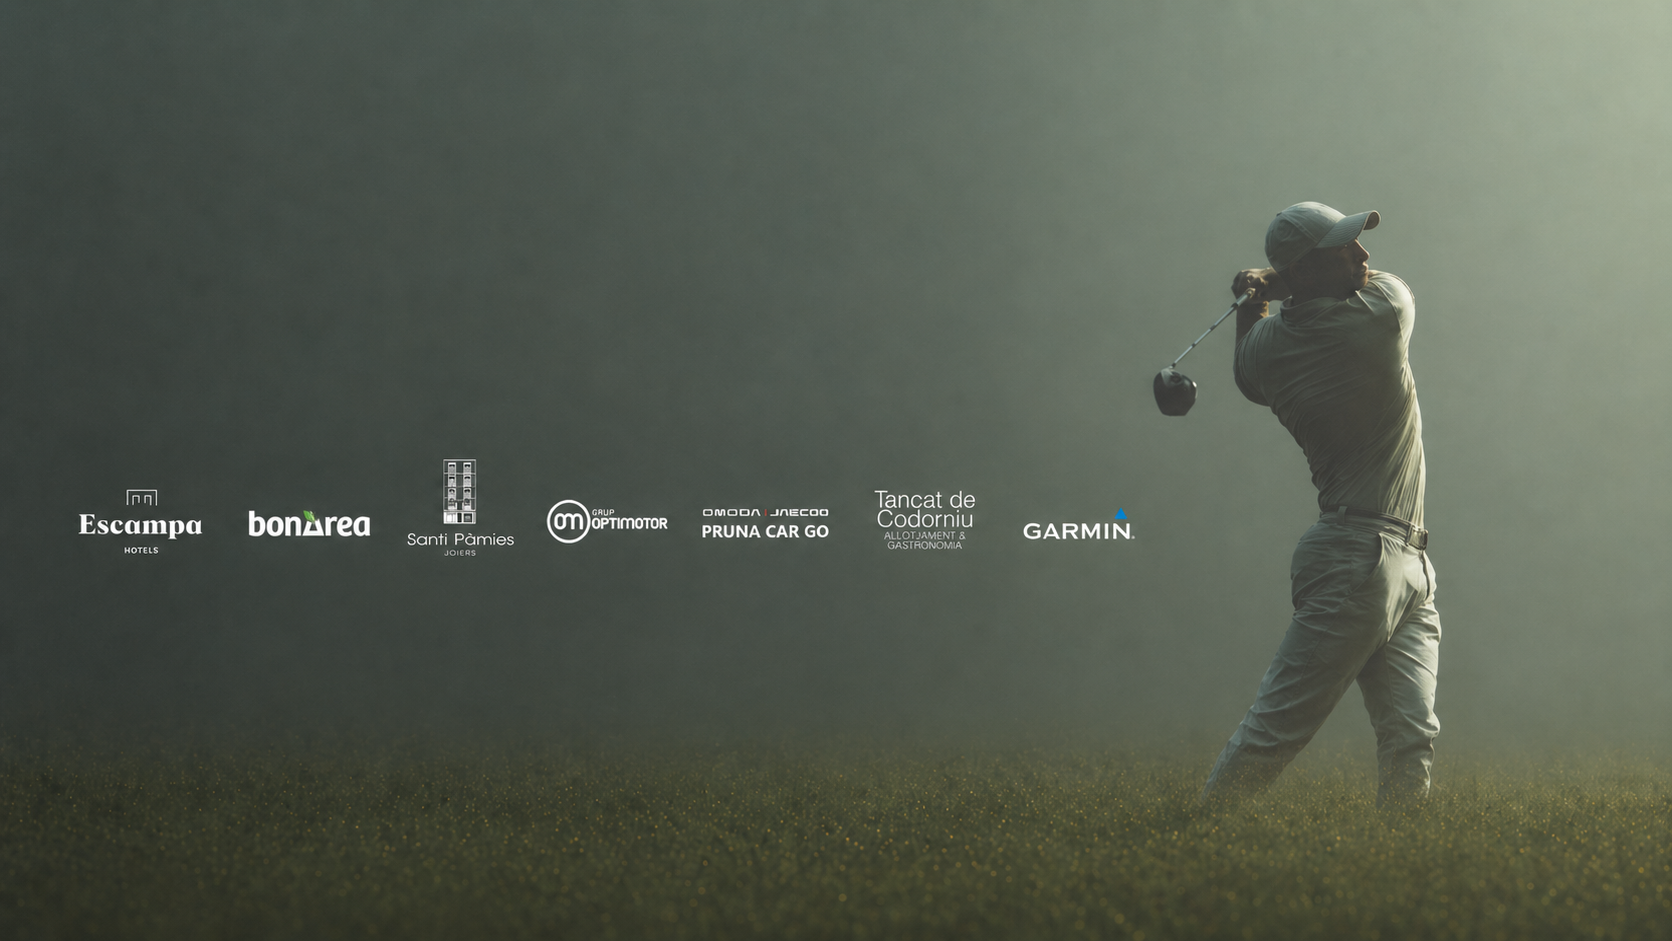
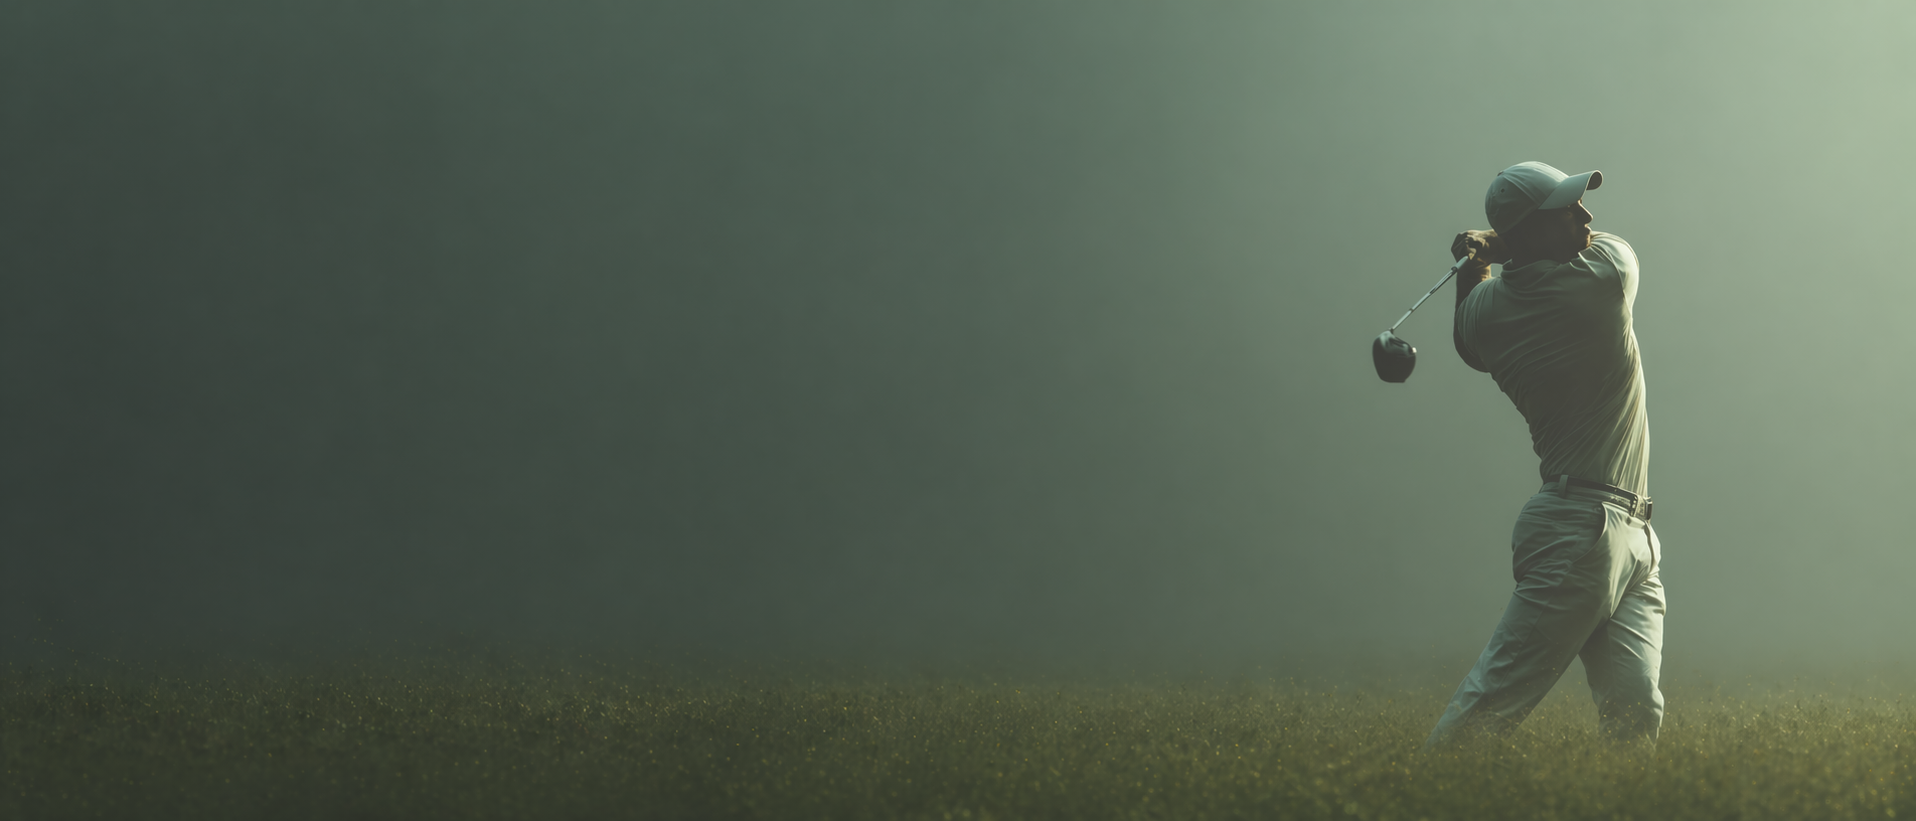
Reverted to commit fd0f9b88e95769e20c5b30c5cc159ce9741b2ccb

diff --git a/src/pages/Index.tsx b/src/pages/Index.tsx
@@ -1,4 +1,11 @@
 import heroBg from '@/assets/hero-editorial.png';
+import sponsorBonarea from '@/assets/sponsors/bonarea.png';
+import sponsorPruna from '@/assets/sponsors/pruna-car-go.png';
+import sponsorTancat from '@/assets/sponsors/tancat-codorniu.png';
+import sponsorOptimotor from '@/assets/sponsors/grup-optimotor.webp';
+import sponsorEscampa from '@/assets/sponsors/escampa-hotels.png';
+import sponsorPamies from '@/assets/sponsors/santi-pamies.png';
+import sponsorGarmin from '@/assets/sponsors/garmin.png';
 import { useState } from 'react';
 import { useTranslation } from 'react-i18next';
 import { Link } from 'react-router-dom';
@@ -110,6 +117,40 @@ const Index = () => {
           </p>
         </div>
 
+        {/* ——— SPONSORS overlay (positioned over the lower part of the hero) ——— */}
+        <div className="absolute inset-x-0 bottom-0 z-10">
+          {/* translucent panel that blends with the image */}
+          <div className="bg-gradient-to-t from-background/85 via-background/55 to-transparent backdrop-blur-[2px] pt-10 pb-5">
+            <div className="container">
+              <div className="flex items-center gap-4 mb-4">
+                <div className="h-px flex-1 bg-border/30" />
+                <h2 className="font-body text-[10px] font-medium tracking-[0.3em] uppercase text-muted-foreground/70">
+                  Patrocinadors
+                </h2>
+                <div className="h-px flex-1 bg-border/30" />
+              </div>
+              <div className="grid grid-cols-4 sm:grid-cols-7 gap-x-4 gap-y-4 sm:gap-x-6 items-center justify-items-center px-2">
+                {[
+                  { src: sponsorBonarea, alt: 'bonÀrea' },
+                  { src: sponsorPruna, alt: 'Pruna Car Go - Omoda Jaecoo' },
+                  { src: sponsorTancat, alt: 'Tancat de Codorniu' },
+                  { src: sponsorOptimotor, alt: 'Grup Optimotor' },
+                  { src: sponsorEscampa, alt: 'Escampa Hotels' },
+                  { src: sponsorPamies, alt: 'Santi Pàmies Joiers' },
+                  { src: sponsorGarmin, alt: 'Garmin' },
+                ].map((s) => (
+                  <img
+                    key={s.alt}
+                    src={s.src}
+                    alt={s.alt}
+                    loading="lazy"
+                    className="max-h-7 sm:max-h-9 w-auto object-contain opacity-55 hover:opacity-95 transition-opacity duration-500 dark:invert"
+                  />
+                ))}
+              </div>
+            </div>
+          </div>
+        </div>
       </section>
 
       {/* ——— QUICK ACCESS ——— */}
